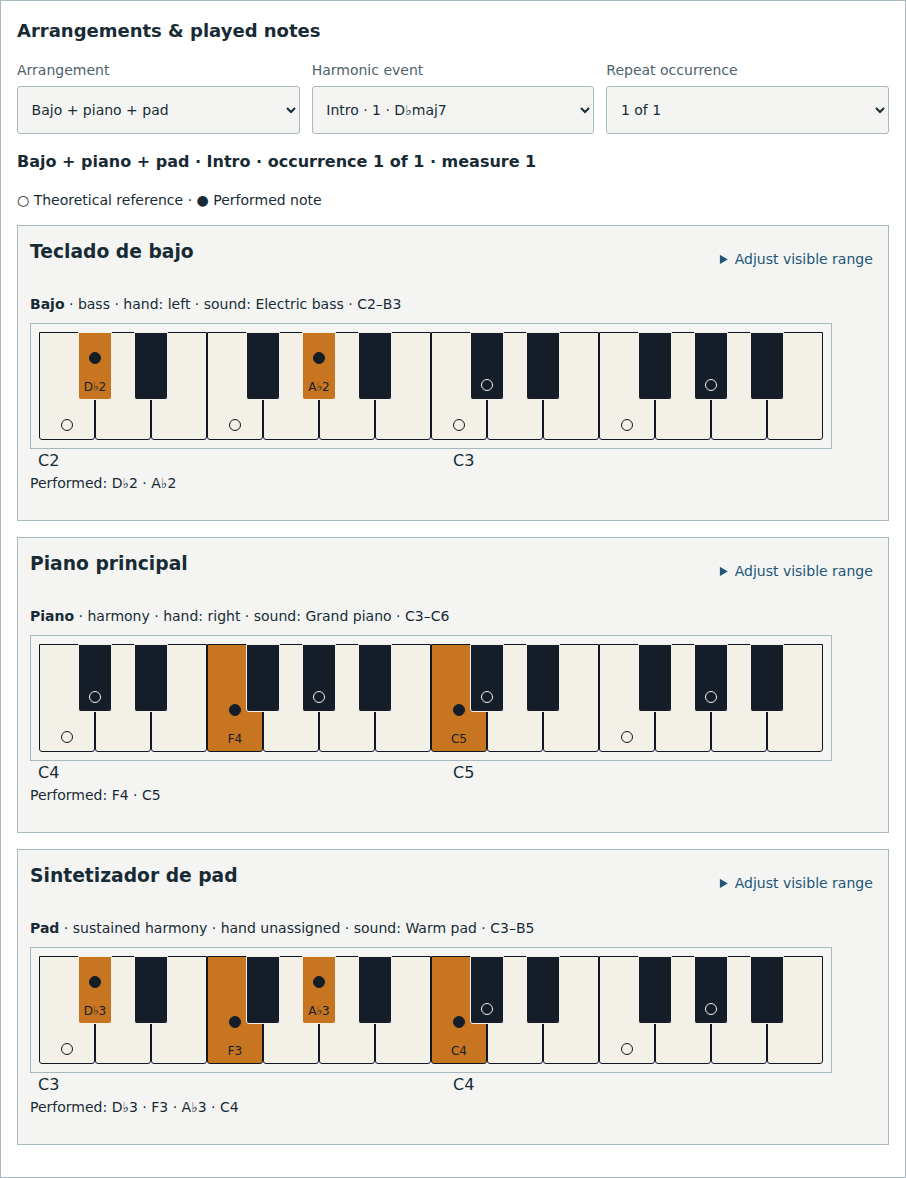
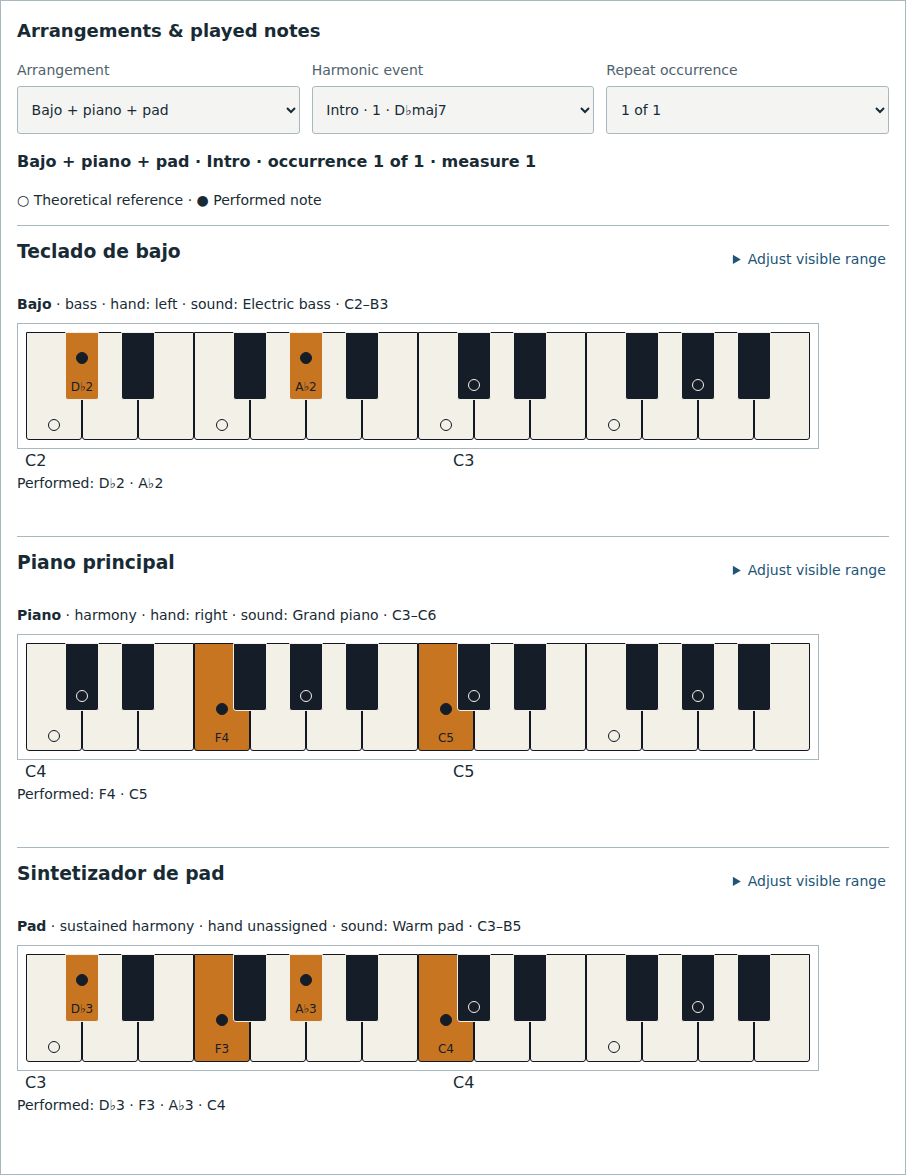
feat: clarify library entry and compact mobile controls (#39)

diff --git a/src/app/styles.css b/src/app/styles.css
@@ -601,26 +601,23 @@ summary {
   flex: 1 1 350px;
 }
 .welcome {
-  padding: 8vh 4vw;
-  max-width: 780px;
+  padding: clamp(2rem, 5vh, 4rem) 0;
+  max-width: 38rem;
 }
 .welcome h2 {
-  font-size: clamp(2.7rem, 5vw, 4.5rem);
-  line-height: 1.06;
-  letter-spacing: -0.06em;
-  margin-bottom: 1.5rem;
+  font-size: clamp(1.8rem, 3vw, 2.5rem);
+  line-height: 1.2;
+  letter-spacing: -0.02em;
+  margin-bottom: 0.75rem;
 }
 .welcome > p {
-  max-width: 530px;
+  max-width: 34rem;
 }
-.welcome .primary {
-  margin: 1rem 0 2rem;
-}
-.welcome-symbol {
-  font-size: 3.5rem;
-  color: var(--lh-action);
-  display: block;
-  margin-bottom: 1.5rem;
+.welcome-actions {
+  display: flex;
+  flex-wrap: wrap;
+  gap: 0.75rem;
+  margin: 1.5rem 0;
 }
 .empty-sketch {
   padding: 2rem 0;
@@ -747,8 +744,35 @@ dialog h2 {
   gap: 0.75rem;
 }
 .startup {
+  width: min(100%, 42rem);
+  margin: clamp(2rem, 8vh, 6rem) auto;
   padding: 2rem;
-  max-width: 700px;
+}
+.startup h1 {
+  font-size: 1.5rem;
+  margin-bottom: 2rem;
+}
+.startup h2 {
+  font-size: clamp(1.8rem, 3vw, 2.5rem);
+  line-height: 1.2;
+}
+.startup p {
+  max-width: 34rem;
+}
+.startup .mode-button {
+  display: inline-flex;
+  align-items: center;
+  justify-content: center;
+  min-height: 48px;
+  padding: 0.55rem 1.25rem;
+  border: 1px solid var(--lh-action);
+  border-radius: var(--lh-control-radius);
+  background: var(--lh-action);
+  color: var(--lh-on-action);
+  text-decoration: none;
+}
+.startup .mode-button:hover {
+  background: var(--lh-text);
 }
 @media (max-width: 1250px) {
   .sketch-layout {
@@ -834,15 +858,6 @@ dialog h2 {
   }
   .section-actions {
     flex-wrap: wrap;
-  }
-  .welcome {
-    padding: 3rem 0.5rem;
-  }
-  .welcome h2 {
-    font-size: 2.6rem;
-  }
-  .welcome br {
-    display: none;
   }
   .add-section {
     flex-wrap: wrap;
@@ -1109,9 +1124,8 @@ dialog h2 {
 }
 .keyboard-view {
   min-width: 0;
-  border: 1px solid var(--lh-border);
-  background: var(--lh-canvas);
-  padding: 0.75rem;
+  border-top: 1px solid var(--lh-border);
+  padding: 0.75rem 0;
 }
 .keyboard-view h3 {
   margin: 0;
@@ -1170,4 +1184,30 @@ dialog h2 {
   white-space: pre-wrap;
   overflow-wrap: anywhere;
   max-width: 100%;
+}
+
+@media (max-width: 620px) {
+  .app-header {
+    align-items: center;
+    gap: 0.5rem;
+  }
+  .top-actions {
+    width: 100%;
+    justify-content: flex-start;
+  }
+  .notation-control {
+    flex: 1 1 7rem;
+  }
+  .notation-control > label,
+  .notation-control > .notation-saved {
+    position: absolute;
+    width: 1px;
+    height: 1px;
+    padding: 0;
+    margin: -1px;
+    overflow: hidden;
+    clip-path: inset(50%);
+    white-space: nowrap;
+    border: 0;
+  }
 }

diff --git a/src/app/App.tsx b/src/app/App.tsx
@@ -1087,33 +1087,42 @@ function LibraryApp({
             </>
           ) : (
             <div className="welcome">
-              <span className="welcome-symbol" aria-hidden="true">
-                ♮
-              </span>
-              <p className="eyebrow">A CLEARER VIEW OF YOUR MUSIC</p>
               <h2>
-                Your next song,
-                <br />
-                mapped out.
+                {library.songs.length === 0
+                  ? "Your music starts here"
+                  : "No songs in this selection"}
               </h2>
               <p>
-                Shape the sections. Keep your chords and cues together.
-                <br />
-                Take a clear sketch to rehearsal and performance.
+                {library.songs.length === 0
+                  ? songEdit
+                    ? "Create a song or import an existing ScoreMap backup to get started."
+                    : "Switch to edit mode to create or import a song."
+                  : "Choose another repertoire or adjust your search to find a song."}
               </p>
-              {songEdit && (
-                <button
-                  type="button"
-                  className="primary"
-                  onClick={() => setModal("song")}
-                >
-                  Create your first song
-                </button>
+              {songEdit && library.songs.length === 0 && (
+                <div className="welcome-actions">
+                  <button
+                    type="button"
+                    className="primary"
+                    onClick={() => setModal("song")}
+                  >
+                    Create your first song
+                  </button>
+                  <button
+                    type="button"
+                    onClick={() => {
+                      importCopy.current = false;
+                      fileInput.current?.click();
+                    }}
+                  >
+                    Import a backup
+                  </button>
+                </div>
               )}
               <p className="muted">
                 {identity
-                  ? "Import an existing ScoreMap backup or create a song. Changes are saved to your private server library."
-                  : "No account. Your own music. Ready offline after the first load."}
+                  ? "Changes are saved to your private library."
+                  : "Your music is saved on this device and available offline after the first load."}
               </p>
             </div>
           )}

diff --git a/tests/e2e/acceptance.spec.ts b/tests/e2e/acceptance.spec.ts
@@ -63,3 +63,51 @@ test("Edit surfaces, dialogs and empty states have accessible names and contrast
     fullPage: true,
   });
 });
+
+test("An empty library offers a direct import path on a narrow screen", async ({
+  page,
+}) => {
+  await page.setViewportSize({ width: 390, height: 844 });
+  await page.goto("/");
+  await expect(
+    page.getByRole("heading", { name: "Your music starts here" }),
+  ).toBeVisible();
+  const chooser = page.waitForEvent("filechooser");
+  await page
+    .getByRole("button", { name: "Import a backup", exact: true })
+    .click();
+  const file = await chooser;
+  page.once("dialog", (dialog) => dialog.accept());
+  await file.setFiles({
+    name: "synthetic-scoremap.json",
+    mimeType: "application/json",
+    buffer: Buffer.from(
+      JSON.stringify({
+        format: "scoremap-backup",
+        version: 1,
+        library: {
+          schemaVersion: 1,
+          revision: 0,
+          repertoires: [],
+          songs: [
+            {
+              id: "synthetic-song",
+              title: "Imported song",
+              artist: "",
+              notes: "",
+              sections: [],
+              references: [],
+            },
+          ],
+        },
+      }),
+    ),
+  });
+  await expect(
+    page.getByRole("heading", { name: "Imported song", exact: true }),
+  ).toBeVisible();
+  await page.reload();
+  await expect(
+    page.getByRole("heading", { name: "Imported song", exact: true }),
+  ).toBeVisible();
+});

diff --git a/src/features/notation/NotationPreference.tsx b/src/features/notation/NotationPreference.tsx
@@ -220,7 +220,14 @@ export function NotationControl() {
         <option value="dual-anglo">C (Do) · Both, Anglo-American first</option>
         <option value="dual-latin">Do (C) · Both, Latin first</option>
       </select>
-      <span role="status">
+      <span
+        role="status"
+        className={
+          !state.loading && !state.error && !state.pending
+            ? "notation-saved"
+            : undefined
+        }
+      >
         {state.loading
           ? "Saving or loading note names…"
           : state.error || state.pending
